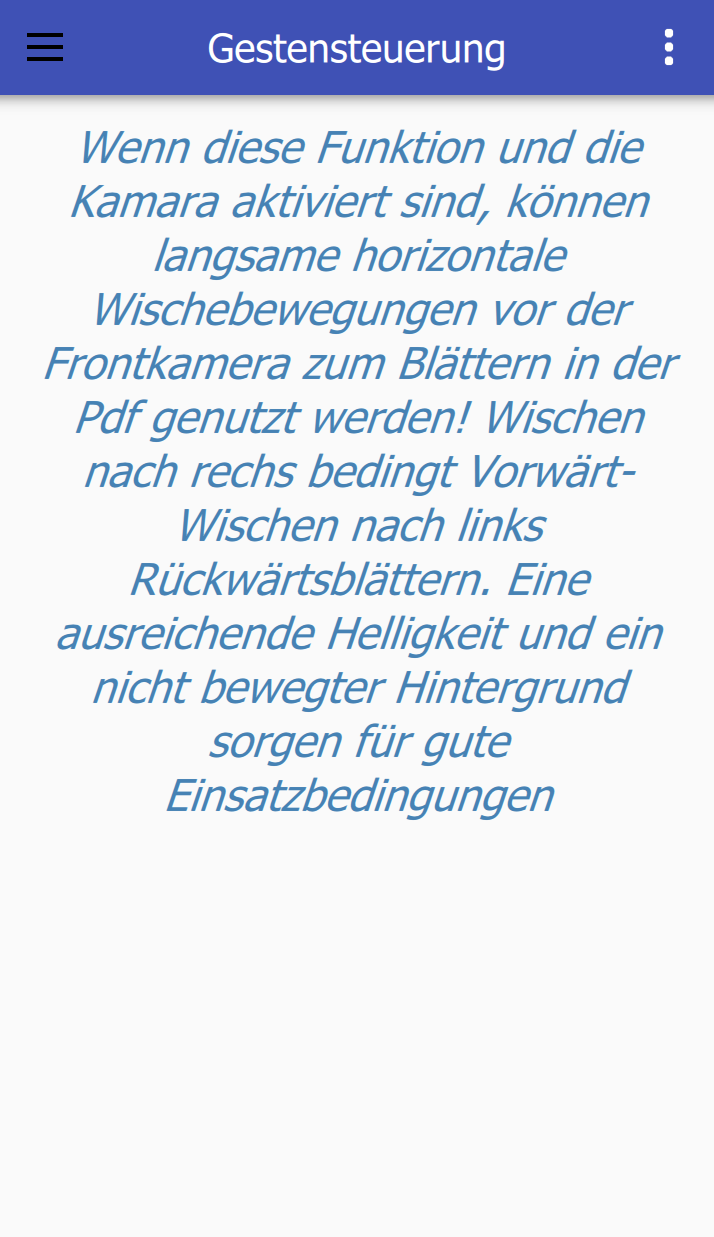
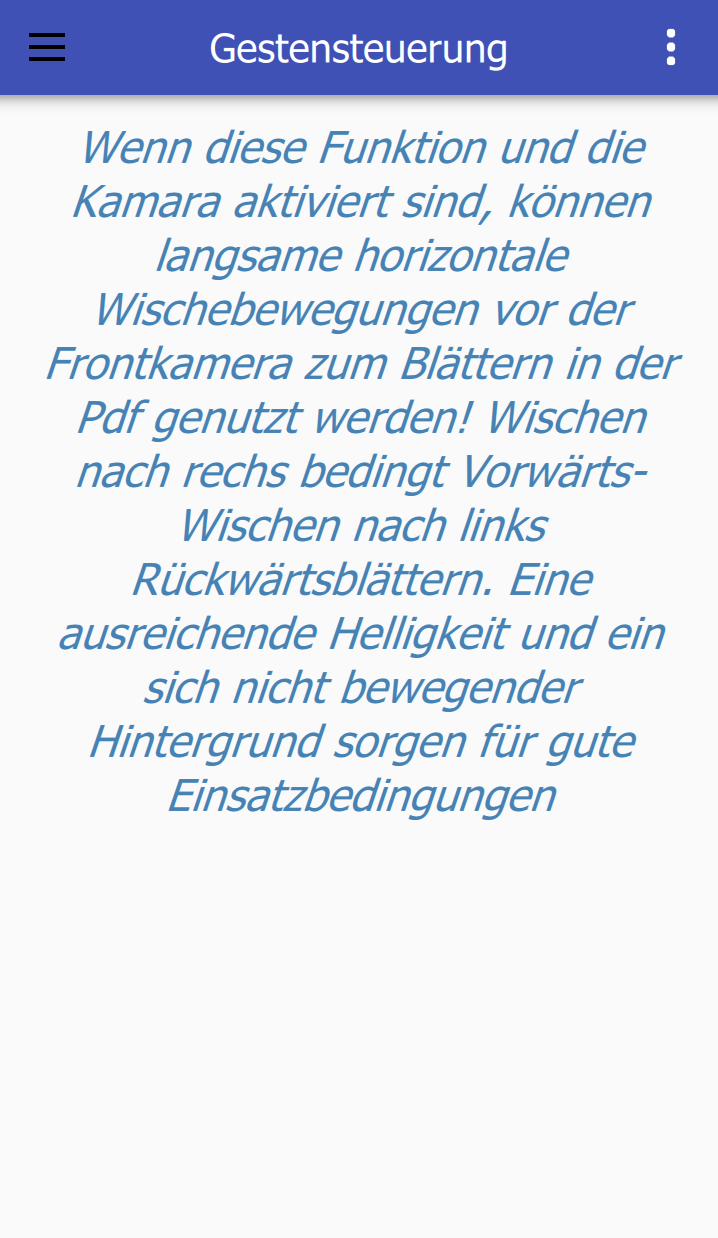
-Einiger Rechtschreibfehler vernichtet

diff --git a/doc/latex/GUI/gui.tex b/doc/latex/GUI/gui.tex
@@ -118,7 +118,7 @@ Die Pdf-Ansicht beinhaltet eine Symbolleiste (siehe \autoref{client:Symbolleiste
 \\Die ineinander greifenden Pfeile signalisieren bei grün, dass die Autosynchronisation aktiv ist. Sobald diese nicht aktiv ist, erscheint ein weiterer Pfeil geschlungen im Uhrzeigersinn in grau auf der Symbolleiste links neben dem Pfeil. Die Funktion ist das manuelle Aktualisieren der Seitenzahl. Ein Sprecher sendet mit dem Refresh-Button die Seitenzahl, die auf seinem Device aktuell ist, zum Server, welcher sie an die Zuhörer-Clients weiterleitet. Ist als Sprecher der Status Autosynchronisation aktiviert, geschieht diese bei jedem Blättern automatisch. Zuhörer können über den Refresh-Button die aktuelle Seite manuell anfragen oder mit Autosynchronisation alle 2 Sekunden zu der aktuellen Seite zurück springen. Wenn der Sprecher blättert, erhalten die Zuhörer jedoch in jedem Fall die aktuelle Seite.
 
 \paragraph{Informationen zur Benutzung}$\;$\\
-Da das bisherige Hilfe-Pop-Up nur recht allgemeine Informationen enthält, sowie für weitere Hilfestellung auf diese eventuell nicht zur Hand liegenden Dokumentation verweist, kann sich der Benutzer über den Drawer zu einer Erklärung der Bedienmöglichkeiten navigieren. Diese Möglichkeit soll einen möglichst einfachen Einstieg ohne viel Ausprobieren sicherstellen und Anwendungsfehler verhindern. Um einen mit dieser Anwendung vertrauten Anwender nicht nach jedem Start durch diese Informationen zu führen, ist das Aufrufen optional (siehe \autoref{client:InformationenBedienhilfen}).
+Da das bisherige Hilfe-Pop-Up nur recht allgemeine Informationen enthält sowie für weitere Hilfestellung auf diese eventuell nicht zur Hand liegenden Dokumentation verweist, kann sich der Benutzer über den Drawer zu einer Erklärung der Bedienmöglichkeiten navigieren. Diese Option soll einen möglichst einfachen Einstieg ohne unnötiges Ausprobieren sicherstellen und Anwendungsfehler verhindern. Um einen mit dieser Anwendung vertrauten Anwender nicht nach jedem Start durch diese Informationen zu führen, ist das Aufrufen optional (siehe \autoref{client:InformationenBedienhilfen}).
 
 \newpage
     
@@ -155,7 +155,7 @@ Die Einbindung der Funktionsblöcke zur Kommunikation des Clients mit dem Server
 Die Software der GUI finden Sie im Git Repository \footnote{https://github.com/BeckmaR/EmbeddedMultimediaSS2016/tree/master/src/app\textunderscore gui}. Einige Funktionalitäten/Bibliotheken sind jedoch aus benachbarten Ordnern eingebunden.
 
 \paragraph{Konzept}$\;$\\
-Zur Umsetzung von GUI, Serveranbinung und der Einbindung der erweiterten Navigationsmöglichkeiten dient Qt-Creator 4.0.2 als IDE. Qt-Creator ist wegen seiner Plattformunabhängigkeit und der grafischen Beschreibungssprache qml für das den Client besonders geeignet. Programmiert ist die GUI überwiegend mit qml. Eine Kombination mit C++ Funktionen sowie das Signal-Slot-Prinzip kommen dabei an vielen stellen z.B. der Serveranbindung zum Einsatz. Mit dem Design-Tool von Qt-Creator stand eine graphische Programmiermöglichkeit von qml-Code zur Verfügung. Dieses stellt eine interessante Ergänzung zum "`schriftlichen"' Programmieren dar. Nach einer erfolgreichen Erprobung des Tools habe ich mich zugunsten der Homogenität des Codes gegen dieses entschieden.
+Zur Umsetzung von GUI, Serveranbinung und der Einbindung der erweiterten Navigationsmöglichkeiten dient Qt-Creator 4.0.2 als IDE. Qt-Creator ist wegen seiner Plattformunabhängigkeit und der grafischen Beschreibungssprache qml für den Client besonders geeignet. Programmiert ist die GUI überwiegend mit qml. Eine Kombination mit C++ Funktionen sowie das Signal-Slot-Prinzip kommen dabei an vielen stellen z.B. der Serveranbindung zum Einsatz. Mit dem Design-Tool von Qt-Creator stand eine graphische Programmiermöglichkeit von qml-Code zur Verfügung. Dieses stellt eine interessante Ergänzung zum "`schriftlichen"' Programmieren dar. Nach einer erfolgreichen Erprobung des Tools habe ich mich zugunsten der Homogenität des Codes gegen dieses Tool entschieden.
 \begin{figure}[ht!]
 	\centering
 	\includegraphics[scale=0.8]{GUI/Bilder/Projektordnerstruktur.PNG}
@@ -165,9 +165,9 @@ Zur Umsetzung von GUI, Serveranbinung und der Einbindung der erweiterten Navigat
 
 
 \paragraph{Struktur}$\;$\\
-Der in Qt-Creator erstellte Projektordner app\textunderscore gui enthält die Projektdatei "`app\textunderscore gui.pro"', Header-Dateien, Quelldateien und Ressourcendateien (siehe \autoref{client:Projektordnerstruktur}). Unter den Quelldateien befindet sich das C++ Hauptprogramm "`main.cpp"'. Unter anderem instantiiert dieses beim Programmstart die Klasse QQmlApplicationEngine unter dem Namen engine. Im Anschluss daran öffnet die Methode engine.load(QUrl(QLatin1String("qrc:/main.qml"))) aus den Ressourcendateien das in qml geschriebene qml-Hauptprogramm "`main.qml"'. Die Datei qml.qrc verwaltet die Ressourcen. Dadurch ist es möglich aus dem qml-Hauptprogramm weitere Ressourcendateien z.B. in Form von Bildern oder weiteren in qml programmierten grafischen und funktionalen Elementen darzustellen oder aufzurufen, wenn diese sich in den Ressourcendateien befinden. Graphische Elemente können Rechtecke, Buttons, oder ganze Menüleisten sein und funktionale Elemente z.B. Timer.
-Das StackView beinhaltet den Inhalt, welcher außerhalb der Randelemente Drawer oder ToolBar auf dem Bildschirm zur Anzeige kommt. Im Hauptprogramm befindet sich im StackView die Startansicht. Bei weiter Navigation durch die GUI ersetzen andere in qml geschriebene Dateien das StackView. Pop-ups überblenden es nur.
-Für eine gute Übersicht über den Code bietet der Ct-Creator die Möglichkeit Codebl\"ocke einzuklappen(siehe \autoref{client:codeausschnitt-main.qml}).
+Der in Qt-Creator erstellte Projektordner app\textunderscore gui enthält die Projektdatei "`app\textunderscore gui.pro"', Header-Dateien, Quelldateien und Ressourcendateien (siehe \autoref{client:Projektordnerstruktur}). Unter den Quelldateien befindet sich das C++ Hauptprogramm "`main.cpp"'. Unter anderem instantiiert dieses beim Programmstart die Klasse QQmlApplicationEngine unter dem Namen "`engine"'. Im Anschluss daran öffnet die Methode engine.load(QUrl(QLatin1String("qrc:/main.qml"))) aus den Ressourcendateien das in qml geschriebene qml-Hauptprogramm "`main.qml"'. Die Datei qml.qrc verwaltet die Ressourcen. Dadurch ist es möglich, aus dem qml-Hauptprogramm weitere Ressourcendateien, z.B. in Form von Bildern oder weiteren, in qml programmierten grafischen und funktionalen Elementen darzustellen oder aufzurufen, wenn diese sich in den Ressourcendateien befinden. Graphische Elemente können Rechtecke, Buttons, oder ganze Menüleisten sein und funktionale Elemente z.B. Timer.
+Das StackView beinhaltet den Inhalt, welcher außerhalb der Randelemente Drawer oder ToolBar auf dem Bildschirm zur Anzeige kommt. Im Hauptprogramm befindet sich im StackView die Startansicht. Bei weiterer Navigation durch die GUI ersetzen andere in qml geschriebene Dateien das StackView. Pop-ups überblenden es nur.
+Für eine gute Übersicht über den Code bietet der Ct-Creator die Möglichkeit, Codebl\"ocke einzuklappen(siehe \autoref{client:codeausschnitt-main.qml}).
 
 \begin{figure}[ht!]
 	\centering
@@ -177,7 +177,7 @@ Für eine gute Übersicht über den Code bietet der Ct-Creator die Möglichkeit 
 \end{figure}
 
 \paragraph{Zustandssteuerung}$\;$\\
-Die Realisierung der grafischen Oberflächen entsprechend bisheriger Einstellungen ist über Zustände einer Variablen "`appState"' realisiert.Entsprechend der aktuellen Zustände sind Informationen mittels der Objekteigenschaft "`visible"' ein oder ausblendet oder über "`enable"' aktiviert oder deaktiviert. Außerdem gibt es weitere Variablen die speichern ob Einstellungen wie z.B. die automatische Synchronisation aktiviert ist, um vor dem ausführen von Funktionen zu überprüften ob diese gewünscht sind.
+Die Realisierung der grafischen Oberflächen entsprechend bisheriger Einstellungen ist über Zustände einer Variablen "`appState"' realisiert. Entsprechend der aktuellen Zustände sind Informationen mittels der Objekteigenschaft "`visible"' ein- oder ausgeblendet oder über "`enable"' aktiviert oder deaktiviert. Außerdem gibt es weitere Variablen, die speichern, dass Einstellungen wie z.B. die automatische Synchronisation aktiviert sind, um vor dem Ausführen von Funktionen zu überprüfen, ob diese gewünscht sind.
 
 \newpage
 
